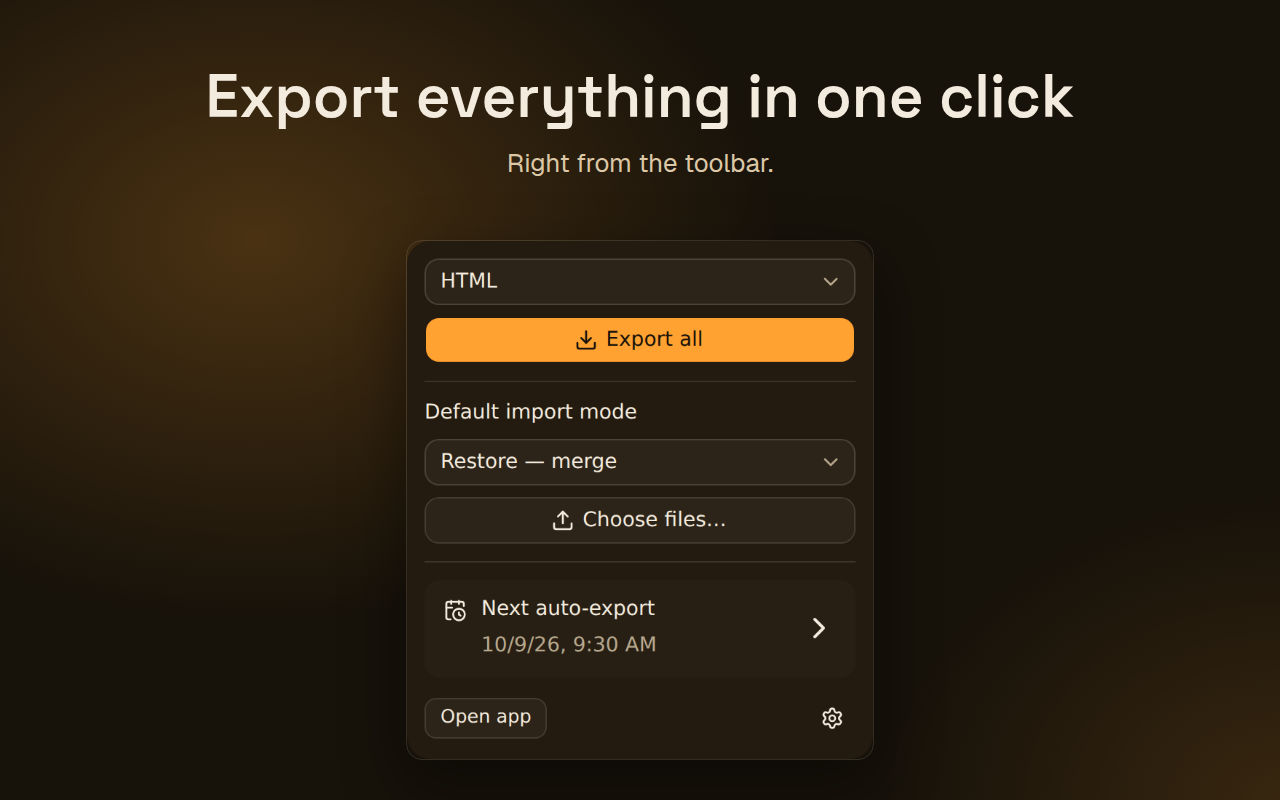
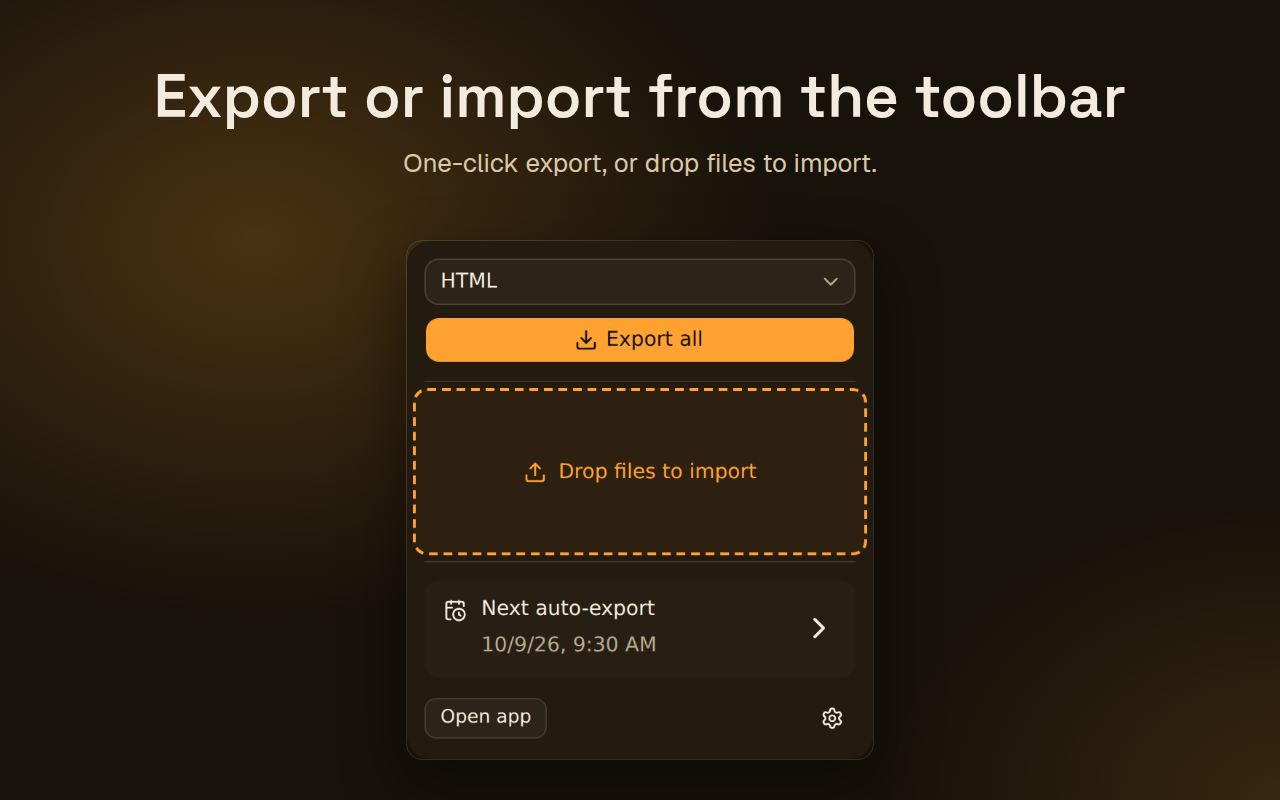
feat: ✨ show the drop overlay on the popup store slide
- Simulated a file drag over the popup Import section before both popup captures
- New popup headline and subtitle in all 10 locales
- Synced site content, landing content doc and store shot list
- Refreshed the EN 04-popup.png

Refs: AO-1596

diff --git a/apps/extension/e2e-store/captions.ts b/apps/extension/e2e-store/captions.ts
@@ -33,8 +33,8 @@ export const STORE_CAPTIONS: Record<string, StoreCaptions> = {
       subtitle: 'Hourly to weekly, straight to your Downloads folder.',
     },
     popup: {
-      headline: 'Export everything in one click',
-      subtitle: 'Right from the toolbar.',
+      headline: 'Export or import from the toolbar',
+      subtitle: 'One-click export, or drop files to import.',
     },
     local: {
       headline: 'Everything stays on your device',
@@ -61,8 +61,8 @@ export const STORE_CAPTIONS: Record<string, StoreCaptions> = {
       subtitle: 'De cada hora a semanal, directo a tu carpeta de Descargas.',
     },
     popup: {
-      headline: 'Exporta todo con un clic',
-      subtitle: 'Directo desde la barra de herramientas.',
+      headline: 'Exporta o importa desde la barra',
+      subtitle: 'Exporta con un clic o suelta archivos para importar.',
     },
     local: {
       headline: 'Todo se queda en tu dispositivo',
@@ -91,8 +91,9 @@ export const STORE_CAPTIONS: Record<string, StoreCaptions> = {
         'Von stündlich bis wöchentlich, direkt in deinen Download-Ordner.',
     },
     popup: {
-      headline: 'Alles mit einem Klick exportieren',
-      subtitle: 'Direkt aus der Symbolleiste.',
+      headline: 'Export und Import per Symbolleiste',
+      subtitle:
+        'Mit einem Klick exportieren oder Dateien zum Importieren ablegen.',
     },
     local: {
       headline: 'Alles bleibt auf deinem Gerät',
@@ -121,8 +122,8 @@ export const STORE_CAPTIONS: Record<string, StoreCaptions> = {
         'Chaque heure ou chaque semaine, directement dans Téléchargements.',
     },
     popup: {
-      headline: 'Tout exporter en un clic',
-      subtitle: "Directement depuis la barre d'outils.",
+      headline: 'Exporter ou importer depuis la barre',
+      subtitle: 'Export en un clic, ou déposez des fichiers pour importer.',
     },
     local: {
       headline: 'Tout reste sur votre appareil',
@@ -150,8 +151,8 @@ export const STORE_CAPTIONS: Record<string, StoreCaptions> = {
         'Da ogni ora a ogni settimana, direttamente nella cartella Download.',
     },
     popup: {
-      headline: 'Esporta tutto con un clic',
-      subtitle: 'Direttamente dalla barra degli strumenti.',
+      headline: 'Esporta o importa dalla barra',
+      subtitle: 'Esporta con un clic o trascina i file per importare.',
     },
     local: {
       headline: 'Tutto resta sul tuo dispositivo',
@@ -178,8 +179,8 @@ export const STORE_CAPTIONS: Record<string, StoreCaptions> = {
       subtitle: '毎時から毎週まで、ダウンロードフォルダへ直接保存します。',
     },
     popup: {
-      headline: 'ワンクリックですべて書き出し',
-      subtitle: 'ツールバーからすぐに。',
+      headline: 'ツールバーから書き出しも読み込みも',
+      subtitle: 'ワンクリックで書き出し。ファイルをドロップして読み込み。',
     },
     local: {
       headline: 'すべてお使いの端末の中に',
@@ -205,8 +206,8 @@ export const STORE_CAPTIONS: Record<string, StoreCaptions> = {
       subtitle: '매시간부터 매주까지, 다운로드 폴더에 바로 저장돼요.',
     },
     popup: {
-      headline: '한 번의 클릭으로 모두 내보내기',
-      subtitle: '툴바에서 바로 실행해요.',
+      headline: '툴바에서 내보내기와 가져오기',
+      subtitle: '클릭 한 번으로 내보내고, 파일을 놓아 가져와요.',
     },
     local: {
       headline: '모든 것은 내 기기 안에서',
@@ -233,8 +234,8 @@ export const STORE_CAPTIONS: Record<string, StoreCaptions> = {
       subtitle: 'De hora em hora a semanalmente, direto na pasta Downloads.',
     },
     popup: {
-      headline: 'Exporte tudo com um clique',
-      subtitle: 'Direto da barra de ferramentas.',
+      headline: 'Exporte ou importe pela barra',
+      subtitle: 'Exporte com um clique ou solte arquivos para importar.',
     },
     local: {
       headline: 'Tudo fica no seu dispositivo',
@@ -261,8 +262,8 @@ export const STORE_CAPTIONS: Record<string, StoreCaptions> = {
       subtitle: 'От ежечасных до еженедельных, сразу в папку «Загрузки».',
     },
     popup: {
-      headline: 'Весь экспорт в один клик',
-      subtitle: 'Прямо с панели инструментов.',
+      headline: 'Экспорт и импорт с панели',
+      subtitle: 'Экспорт в один клик, импорт — перетаскиванием файлов.',
     },
     local: {
       headline: 'Всё остаётся на вашем устройстве',
@@ -289,8 +290,8 @@ export const STORE_CAPTIONS: Record<string, StoreCaptions> = {
       subtitle: '从每小时到每周，直接保存到下载文件夹。',
     },
     popup: {
-      headline: '一键导出全部书签',
-      subtitle: '直接在工具栏中使用。',
+      headline: '在工具栏中导出或导入',
+      subtitle: '一键导出，或拖入文件即可导入。',
     },
     local: {
       headline: '一切都留在你的设备上',

diff --git a/apps/extension/e2e-store/store-screenshots.spec.ts b/apps/extension/e2e-store/store-screenshots.spec.ts
@@ -278,6 +278,19 @@ test('composes the five store screenshots', async ({
 
   const popup = await openExtensionPage('popup.html')
   await expect(popup.getByTestId('popup-frame')).toBeVisible()
+  const dragData = await popup.evaluateHandle(() => {
+    const transfer = new DataTransfer()
+    transfer.items.add(
+      new File(['<!DOCTYPE NETSCAPE-Bookmark-file-1>'], 'bookmarks.html', {
+        type: 'text/html',
+      }),
+    )
+    return transfer
+  })
+  await popup
+    .locator('section:has(input[type="file"])')
+    .dispatchEvent('dragover', { dataTransfer: dragData })
+  await expect(popup.getByTestId('popup-import-drop-overlay')).toBeVisible()
   if (IS_LANDING) {
     await popup.addStyleTag({
       content: `

diff --git a/docs/landing/content.md b/docs/landing/content.md
@@ -643,25 +643,25 @@ its own set (`es/`, `de/`, `fr/`, `it/`, `ja/`, `ko/`, `pt_BR/`, `ru/`,
 | `01-export.png`      | Export page: pick folders from the tree, choose a format, export.        |
 | `02-import.png`      | Import preview: see what will change, then pick merge, replace or new.   |
 | `03-auto-export.png` | Auto-export: daily, in HTML, JSON and Markdown, with the next run shown. |
-| `04-popup.png`       | The toolbar popup exports everything in one click.                       |
+| `04-popup.png`       | The toolbar popup exports in one click and imports files you drop on it. |
 
 ### ES
 
-| Image                | Caption                                                                                          |
-| -------------------- | ------------------------------------------------------------------------------------------------ |
-| `01-export.png`      | Página de exportación: elige carpetas del árbol, un formato y exporta.                           |
-| `02-import.png`      | Vista previa de importación: mira qué cambia y elige combinar, reemplazar o carpeta nueva.       |
-| `03-auto-export.png` | Exportación automática: a diario, en HTML, JSON y Markdown, con la próxima ejecución a la vista. |
-| `04-popup.png`       | La ventana de la barra de herramientas exporta todo con un clic.                                 |
+| Image                | Caption                                                                                                |
+| -------------------- | ------------------------------------------------------------------------------------------------------ |
+| `01-export.png`      | Página de exportación: elige carpetas del árbol, un formato y exporta.                                 |
+| `02-import.png`      | Vista previa de importación: mira qué cambia y elige combinar, reemplazar o carpeta nueva.             |
+| `03-auto-export.png` | Exportación automática: a diario, en HTML, JSON y Markdown, con la próxima ejecución a la vista.       |
+| `04-popup.png`       | La ventana de la barra de herramientas exporta con un clic e importa los archivos que sueltas en ella. |
 
 ### DE
 
-| Image                | Caption                                                                                         |
-| -------------------- | ----------------------------------------------------------------------------------------------- |
-| `01-export.png`      | Exportseite: Ordner aus dem Baum wählen, Format festlegen, exportieren.                         |
-| `02-import.png`      | Importvorschau: sehen, was sich ändert, dann Zusammenführen, Ersetzen oder neuer Ordner wählen. |
-| `03-auto-export.png` | Auto-Export: täglich, in HTML, JSON und Markdown, mit dem nächsten Lauf.                        |
-| `04-popup.png`       | Das Popup in der Symbolleiste exportiert alles mit einem Klick.                                 |
+| Image                | Caption                                                                                                 |
+| -------------------- | ------------------------------------------------------------------------------------------------------- |
+| `01-export.png`      | Exportseite: Ordner aus dem Baum wählen, Format festlegen, exportieren.                                 |
+| `02-import.png`      | Importvorschau: sehen, was sich ändert, dann Zusammenführen, Ersetzen oder neuer Ordner wählen.         |
+| `03-auto-export.png` | Auto-Export: täglich, in HTML, JSON und Markdown, mit dem nächsten Lauf.                                |
+| `04-popup.png`       | Das Popup in der Symbolleiste exportiert mit einem Klick und importiert Dateien, die du darauf ablegst. |
 
 ### FR
 
@@ -670,7 +670,7 @@ its own set (`es/`, `de/`, `fr/`, `it/`, `ja/`, `ko/`, `pt_BR/`, `ru/`,
 | `01-export.png`      | Page d'exportation : choisissez des dossiers dans l'arborescence, un format, puis exportez.             |
 | `02-import.png`      | Aperçu de l'import : voyez ce qui change, puis choisissez fusionner, remplacer ou nouveau dossier.      |
 | `03-auto-export.png` | Exportation automatique : chaque jour, en HTML, JSON et Markdown, avec la prochaine exécution affichée. |
-| `04-popup.png`       | La fenêtre de la barre d'outils exporte tout en un clic.                                                |
+| `04-popup.png`       | La fenêtre de la barre d'outils exporte en un clic et importe les fichiers que vous y déposez.          |
 
 ### IT
 
@@ -679,16 +679,16 @@ its own set (`es/`, `de/`, `fr/`, `it/`, `ja/`, `ko/`, `pt_BR/`, `ru/`,
 | `01-export.png`      | Pagina di esportazione: scegli le cartelle dall'albero, un formato ed esporta.                       |
 | `02-import.png`      | Anteprima di importazione: vedi cosa cambia, poi scegli unisci, sostituisci o nuova cartella.        |
 | `03-auto-export.png` | Esportazione automatica: ogni giorno, in HTML, JSON e Markdown, con la prossima esecuzione in vista. |
-| `04-popup.png`       | Il popup nella barra degli strumenti esporta tutto con un clic.                                      |
+| `04-popup.png`       | Il popup nella barra degli strumenti esporta con un clic e importa i file che ci trascini sopra.     |
 
 ### JA
 
-| Image                | Caption                                                                              |
-| -------------------- | ------------------------------------------------------------------------------------ |
-| `01-export.png`      | 書き出しページ：ツリーからフォルダーを選び、形式を選んで書き出します。               |
-| `02-import.png`      | 読み込みプレビュー：変更内容を確認し、統合、置き換え、新しいフォルダーから選びます。 |
-| `03-auto-export.png` | 自動書き出し：毎日、HTML、JSON、Markdown で。次回の実行も表示されます。              |
-| `04-popup.png`       | ツールバーのポップアップから、ワンクリックですべてを書き出せます。                   |
+| Image                | Caption                                                                                  |
+| -------------------- | ---------------------------------------------------------------------------------------- |
+| `01-export.png`      | 書き出しページ：ツリーからフォルダーを選び、形式を選んで書き出します。                   |
+| `02-import.png`      | 読み込みプレビュー：変更内容を確認し、統合、置き換え、新しいフォルダーから選びます。     |
+| `03-auto-export.png` | 自動書き出し：毎日、HTML、JSON、Markdown で。次回の実行も表示されます。                  |
+| `04-popup.png`       | ツールバーのポップアップは、ワンクリックで書き出し、ドロップしたファイルを読み込めます。 |
 
 ### KO
 
@@ -697,25 +697,25 @@ its own set (`es/`, `de/`, `fr/`, `it/`, `ja/`, `ko/`, `pt_BR/`, `ru/`,
 | `01-export.png`      | 내보내기 페이지: 트리에서 폴더를 고르고, 형식을 선택해 내보내요.               |
 | `02-import.png`      | 가져오기 미리보기: 무엇이 바뀌는지 확인하고 병합, 교체, 새 폴더 중에서 골라요. |
 | `03-auto-export.png` | 자동 내보내기: 매일, HTML, JSON, Markdown으로, 다음 실행 시각도 표시돼요.      |
-| `04-popup.png`       | 툴바 팝업은 클릭 한 번으로 모두 내보내요.                                      |
+| `04-popup.png`       | 툴바 팝업은 클릭 한 번으로 내보내고, 놓아 둔 파일을 가져와요.                  |
 
 ### PT_BR
 
-| Image                | Caption                                                                                      |
-| -------------------- | -------------------------------------------------------------------------------------------- |
-| `01-export.png`      | Página de exportação: escolha pastas da árvore, um formato e exporte.                        |
-| `02-import.png`      | Pré-visualização da importação: veja o que muda e escolha mesclar, substituir ou pasta nova. |
-| `03-auto-export.png` | Exportação automática: diária, em HTML, JSON e Markdown, com a próxima execução à vista.     |
-| `04-popup.png`       | O pop-up da barra de ferramentas exporta tudo com um clique.                                 |
+| Image                | Caption                                                                                           |
+| -------------------- | ------------------------------------------------------------------------------------------------- |
+| `01-export.png`      | Página de exportação: escolha pastas da árvore, um formato e exporte.                             |
+| `02-import.png`      | Pré-visualização da importação: veja o que muda e escolha mesclar, substituir ou pasta nova.      |
+| `03-auto-export.png` | Exportação automática: diária, em HTML, JSON e Markdown, com a próxima execução à vista.          |
+| `04-popup.png`       | O pop-up da barra de ferramentas exporta com um clique e importa os arquivos que você solta nele. |
 
 ### RU
 
-| Image                | Caption                                                                                          |
-| -------------------- | ------------------------------------------------------------------------------------------------ |
-| `01-export.png`      | Страница экспорта: выберите папки в дереве и формат, затем экспортируйте.                        |
-| `02-import.png`      | Предпросмотр импорта: посмотрите, что изменится, и выберите объединение, замену или новую папку. |
-| `03-auto-export.png` | Автоэкспорт: ежедневно, в HTML, JSON и Markdown, с указанием следующего запуска.                 |
-| `04-popup.png`       | Всплывающее окно на панели инструментов экспортирует всё одним щелчком.                          |
+| Image                | Caption                                                                                                     |
+| -------------------- | ----------------------------------------------------------------------------------------------------------- |
+| `01-export.png`      | Страница экспорта: выберите папки в дереве и формат, затем экспортируйте.                                   |
+| `02-import.png`      | Предпросмотр импорта: посмотрите, что изменится, и выберите объединение, замену или новую папку.            |
+| `03-auto-export.png` | Автоэкспорт: ежедневно, в HTML, JSON и Markdown, с указанием следующего запуска.                            |
+| `04-popup.png`       | Всплывающее окно на панели инструментов экспортирует одним щелчком и импортирует перетащенные в него файлы. |
 
 ### ZH_CN
 
@@ -724,7 +724,7 @@ its own set (`es/`, `de/`, `fr/`, `it/`, `ja/`, `ko/`, `pt_BR/`, `ru/`,
 | `01-export.png`      | 导出页面：从树中选择文件夹和格式，然后导出。                            |
 | `02-import.png`      | 导入预览：查看将发生的更改，再选择合并、替换或新建文件夹。              |
 | `03-auto-export.png` | 自动导出：每天一次，格式为 HTML、JSON 和 Markdown，并显示下次运行时间。 |
-| `04-popup.png`       | 工具栏弹出窗口一键导出全部书签。                                        |
+| `04-popup.png`       | 工具栏弹出窗口可一键导出，也可导入拖入的文件。                          |
 
 The fifth store slide (`05-local.png`) has no interface in it, so it is not used
 here.

diff --git a/docs/store/screenshots.md b/docs/store/screenshots.md
@@ -20,13 +20,13 @@ the `en/` set.
 
 ## Shot list (English captions)
 
-| Order | File                 | Headline                        | What it shows                                                                      |
-| ----- | -------------------- | ------------------------------- | ---------------------------------------------------------------------------------- |
-| 1     | `01-export.png`      | Export exactly what you choose  | Export page: folder tree with Development checked, six format chips, Export button |
-| 2     | `02-import.png`      | Preview every import first      | Import preview of a bookmarks file with the three import modes                     |
-| 3     | `03-auto-export.png` | Scheduled backups, hands-free   | Auto-export on (daily, HTML, JSON and Markdown), with the last and next run        |
-| 4     | `04-popup.png`       | Export everything in one click  | The toolbar popup, centered                                                        |
-| 5     | `05-local.png`       | Everything stays on your device | No app UI: the store icon and four local-only claims                               |
+| Order | File                 | Headline                          | What it shows                                                                        |
+| ----- | -------------------- | --------------------------------- | ------------------------------------------------------------------------------------ |
+| 1     | `01-export.png`      | Export exactly what you choose    | Export page: folder tree with Development checked, six format chips, Export button   |
+| 2     | `02-import.png`      | Preview every import first        | Import preview of a bookmarks file with the three import modes                       |
+| 3     | `03-auto-export.png` | Scheduled backups, hands-free     | Auto-export on (daily, HTML, JSON and Markdown), with the last and next run          |
+| 4     | `04-popup.png`       | Export or import from the toolbar | The toolbar popup, centered, with the drop-to-import overlay over the Import section |
+| 5     | `05-local.png`       | Everything stays on your device   | No app UI: the store icon and four local-only claims                                 |
 
 Captions live in `e2e-store/captions.ts` (one entry per locale: five headlines,
 four subtitles, four slide-5 claims). Slide 1's subtitle names all six export
